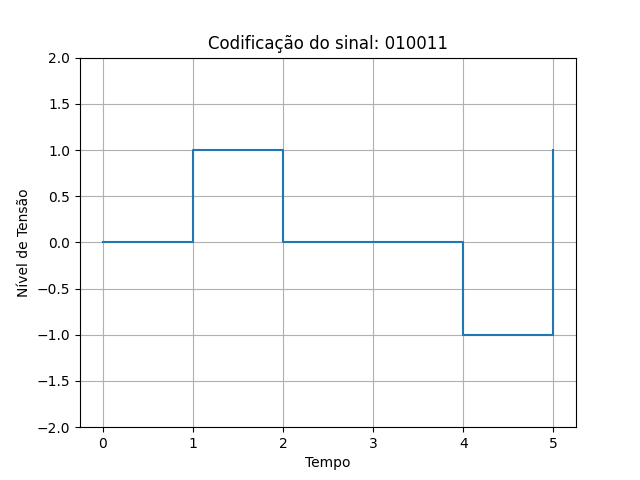
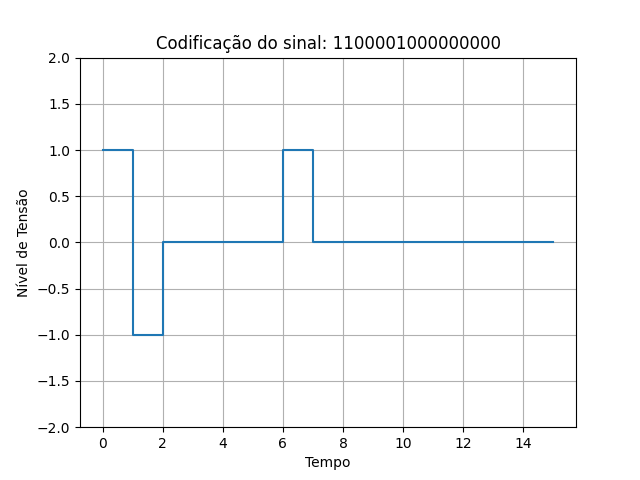
fixed hdb3

diff --git a/Trabalho1/codificadores.py b/Trabalho1/codificadores.py
@@ -1,6 +1,6 @@
 def b8zs(bits: str) -> list[int]:
     result = []
-    last_polarity = 1 
+    last_polarity = 1
     
     i = 0
     while i < len(bits):
@@ -67,14 +67,6 @@ def manchester(bits: str) -> list[int]:
             result.extend([-1, 1])  
     return result
 
-# def manchester_differential(bits: str) -> list[int]:
-#     result = []
-#     current_level = 1
-#     for bit in bits:
-#         if bit == '0':
-#             current_level *= -1
-#         result.extend([current_level, -current_level])
-#     return result
 
 def manchester_differential(bits: str) -> list[int]:
     result = []
@@ -96,30 +88,32 @@ def manchester_differential(bits: str) -> list[int]:
 
 def hdb3(bits: str) -> list[int]:
     result = []
-    last_polarity = -1
-    pulse_count = 0
-    i = 0
+    last_polarity = -1 
+    pulse_count = 0    
 
+    i = 0
     while i < len(bits):
-        if i <= len(bits) - 4 and bits[i:i+4] == "0000":
+        if bits[i:i+4] == "0000":
             if pulse_count % 2 == 0:
-                result.extend([0, 0, 0, last_polarity])
-                pulse_count = 1
-            else:
                 last_polarity *= -1
-                result.extend([last_polarity, 0, 0, last_polarity])
-                pulse_count = 0
+                b = last_polarity
+                v = last_polarity
+                result.extend([b, 0, 0, v])
+            else:
+                v = last_polarity
+                result.extend([0, 0, 0, v])
+            pulse_count = 0
             i += 4
         else:
-            bit = bits[i]
-            if bit == '0':
-                result.append(0)
-            else:
+            if bits[i] == '1':
                 last_polarity *= -1
                 result.append(last_polarity)
                 pulse_count += 1
+            else:
+                result.append(0)
             i += 1
     return result
+
 
 def mlt_3(bits: str) -> list[int]:
     result = []
@@ -146,8 +140,8 @@ def mlt_3(bits: str) -> list[int]:
 
     Manchester Diferencial - WORKING 
 
-    b8zs - WORKING ?
+    b8zs - WORKING 
 
-    hdb3 - FIX
+    hdb3 - WORKING
 
 """

diff --git a/Trabalho1/main.py b/Trabalho1/main.py
@@ -1,7 +1,7 @@
 from codificadores import b8zs, nrz_l, nrz_i, ami, pseudoternary, manchester, manchester_differential, hdb3, mlt_3
 from plot import plot_sinal
 
-bits = "010011"
+bits = "1100001000000000"
 sinal_b8zs = b8zs(bits)
 sinal_nrzl = nrz_l(bits)
 sinal_nrzi = nrz_i(bits)
